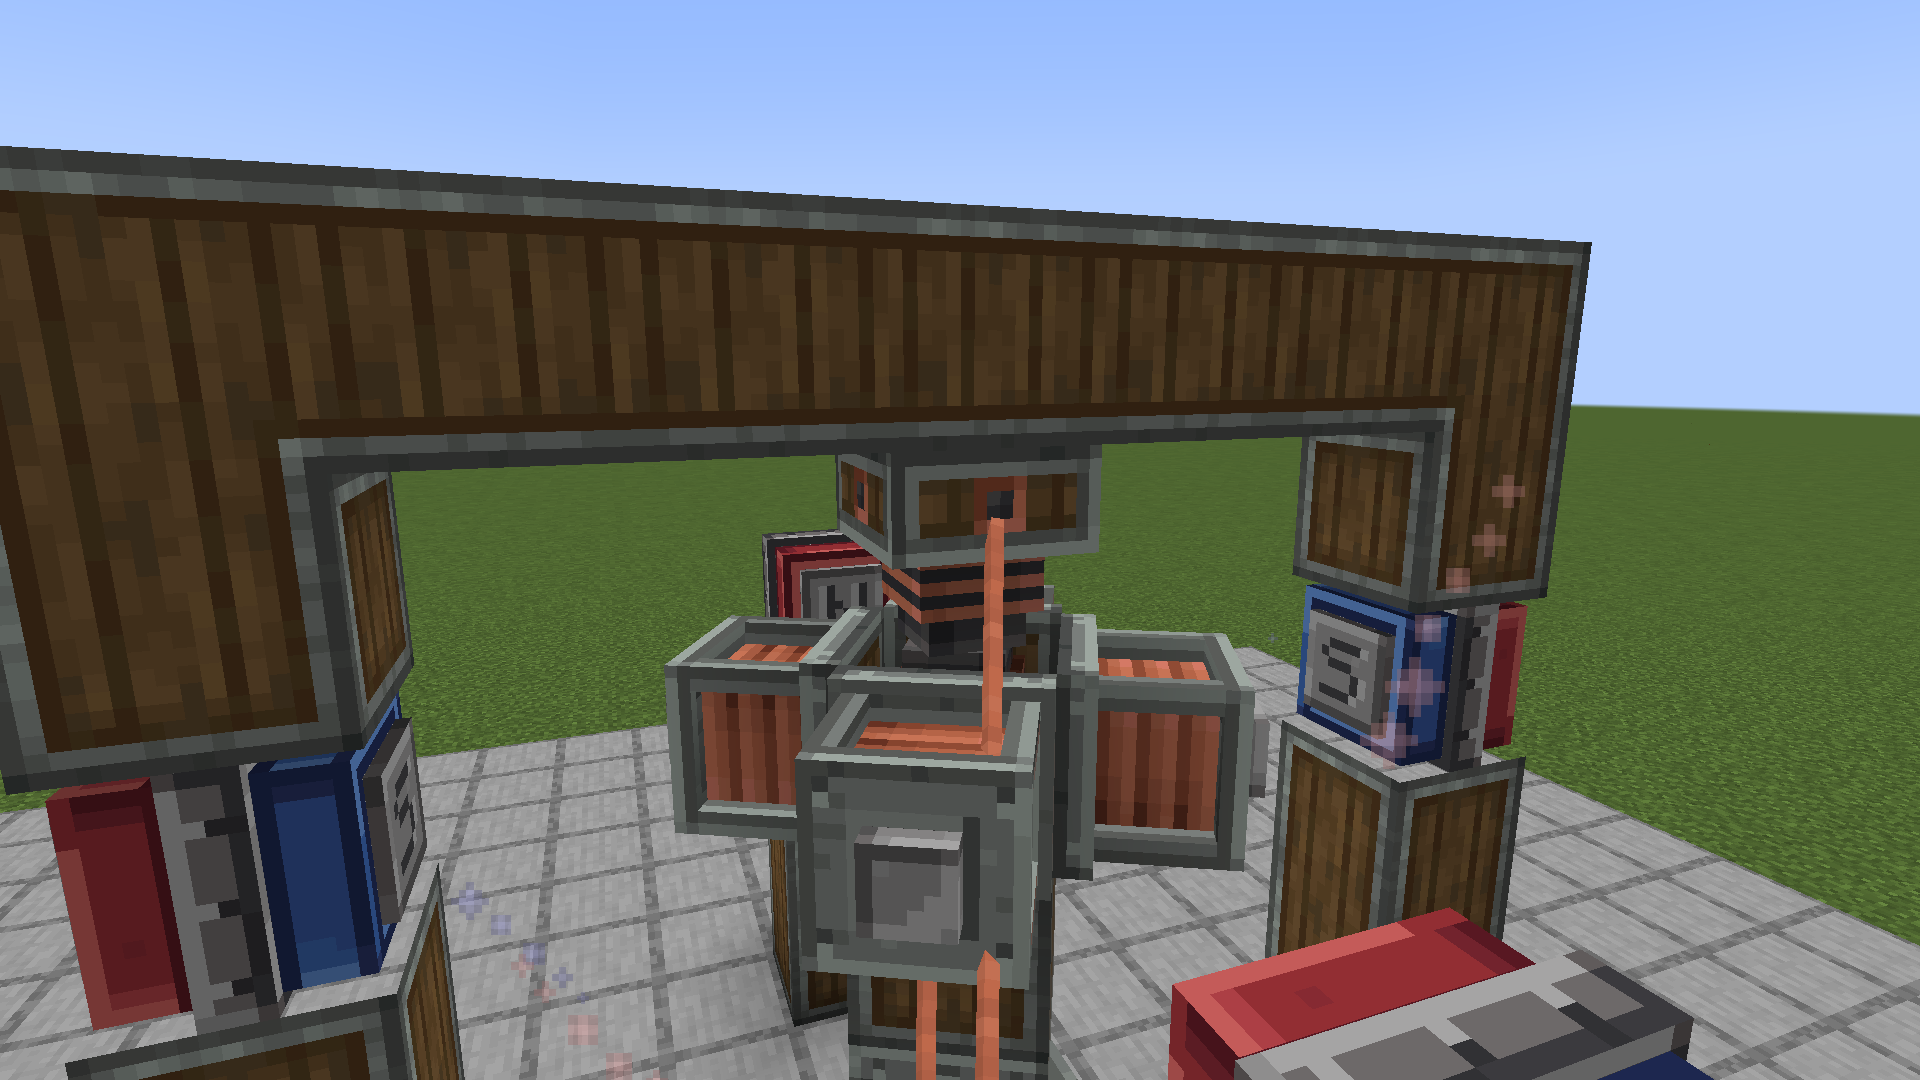
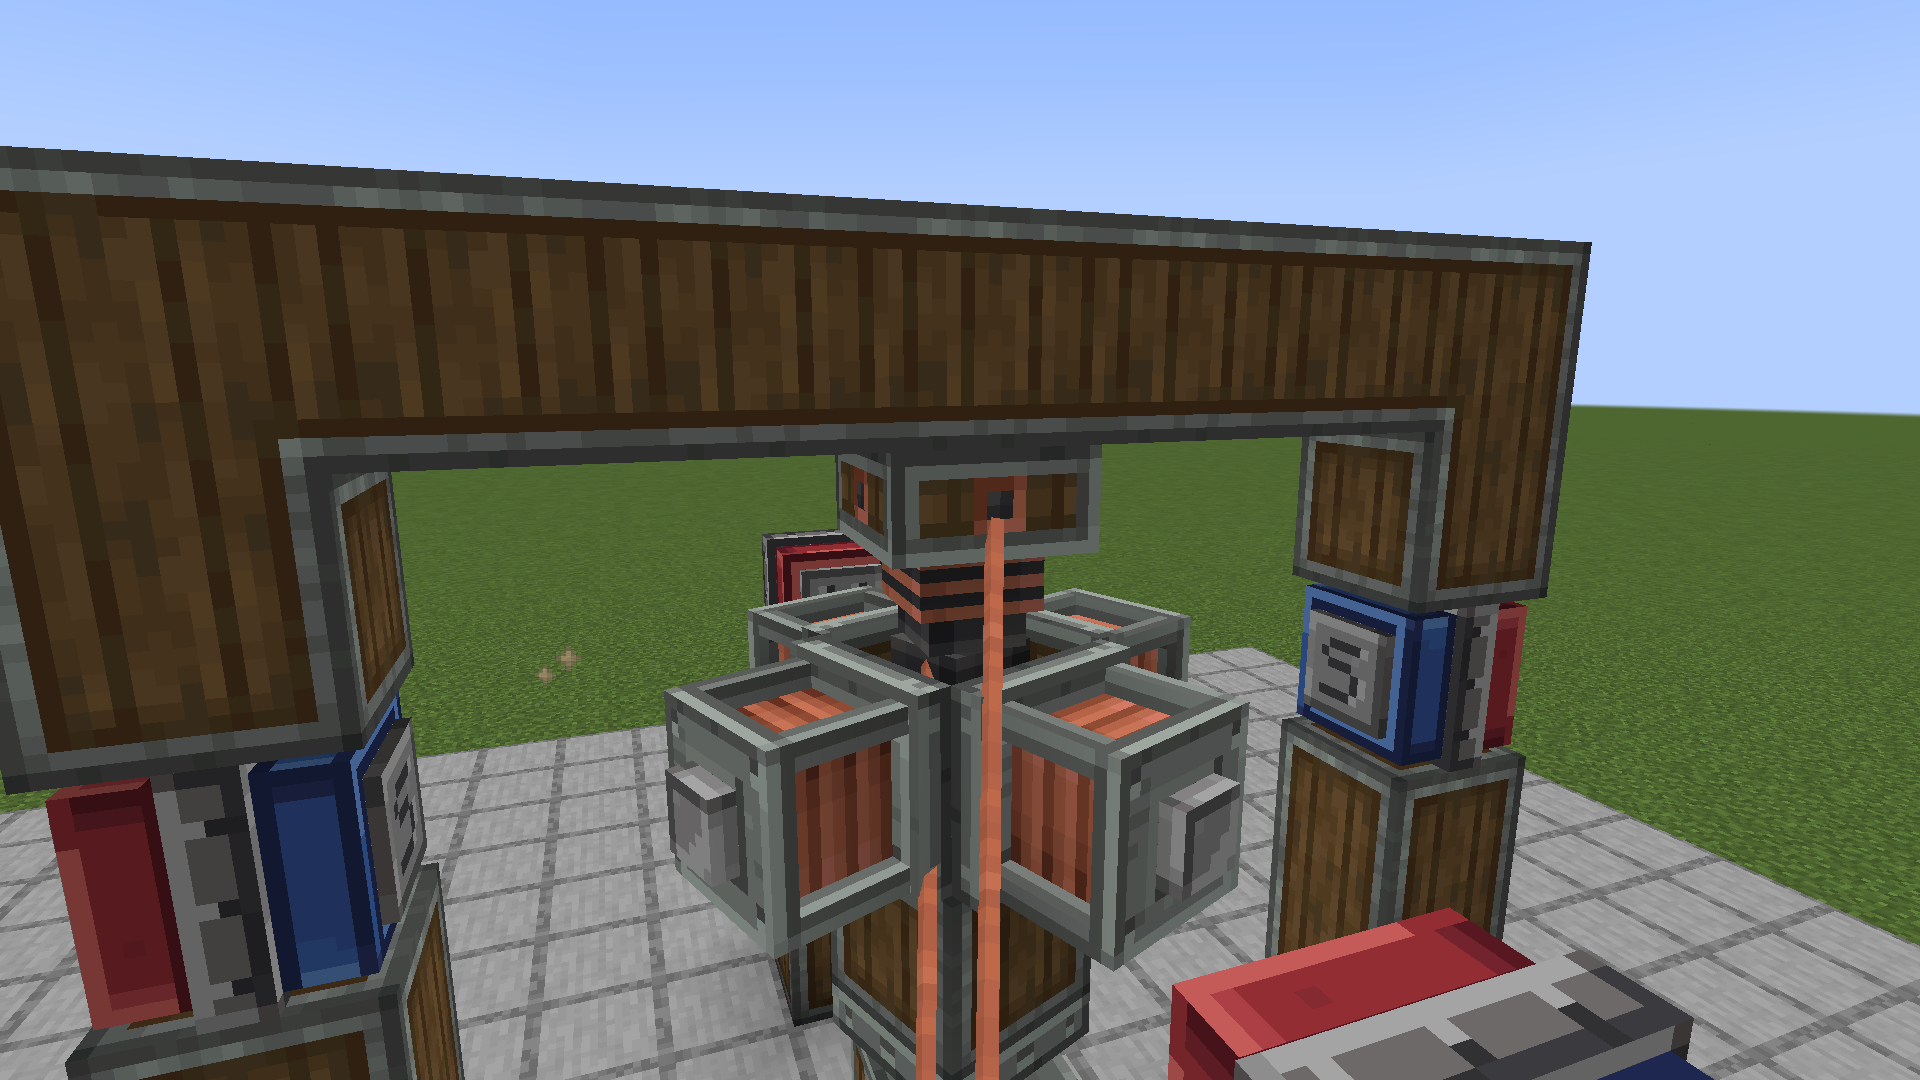
chore: release 0.2.1
Claude-Session: https://claude.ai/code/session_01CYFnpUG9vceuDEbjoJofNZ

diff --git a/CHANGELOG.md b/CHANGELOG.md
@@ -1,5 +1,8 @@
 # Changelog
 
+## 0.2.1
+- Fixed faces of neighbouring blocks disappearing next to coils, magnets and slip rings.
+
 ## 0.2.0
 - New block: Slip Ring. Two of them face to face carry Forge Energy or Power Grid current across a turning joint, so coils can ride on the rotor with the magnets standing still around it.
 - Coils and magnets on jointed physics structures (for example riveted on at an angle with Simulated Coasters) now work at full strength.
